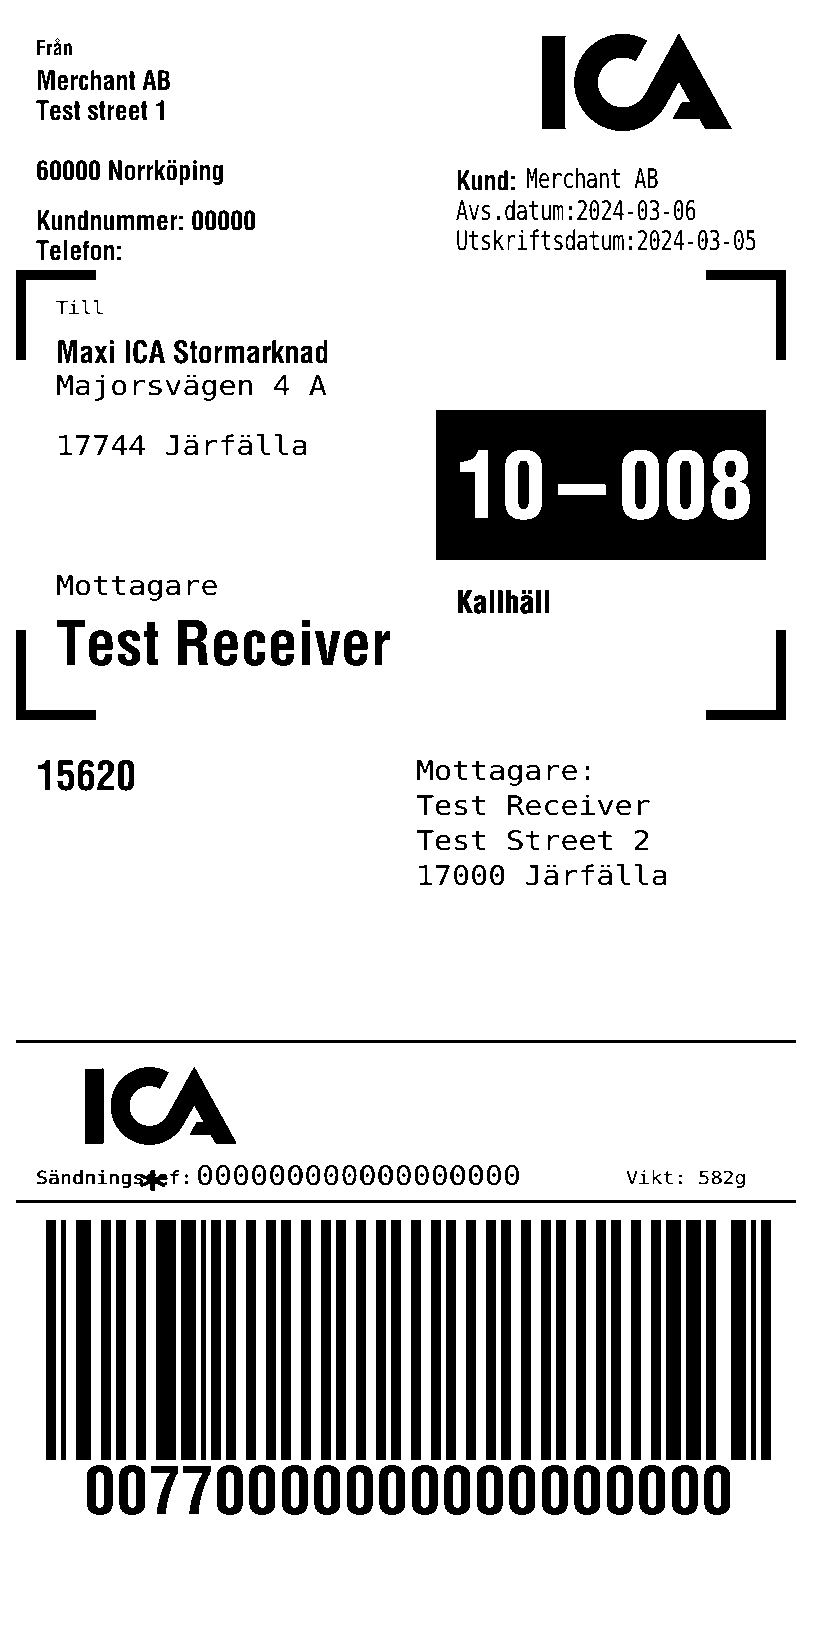
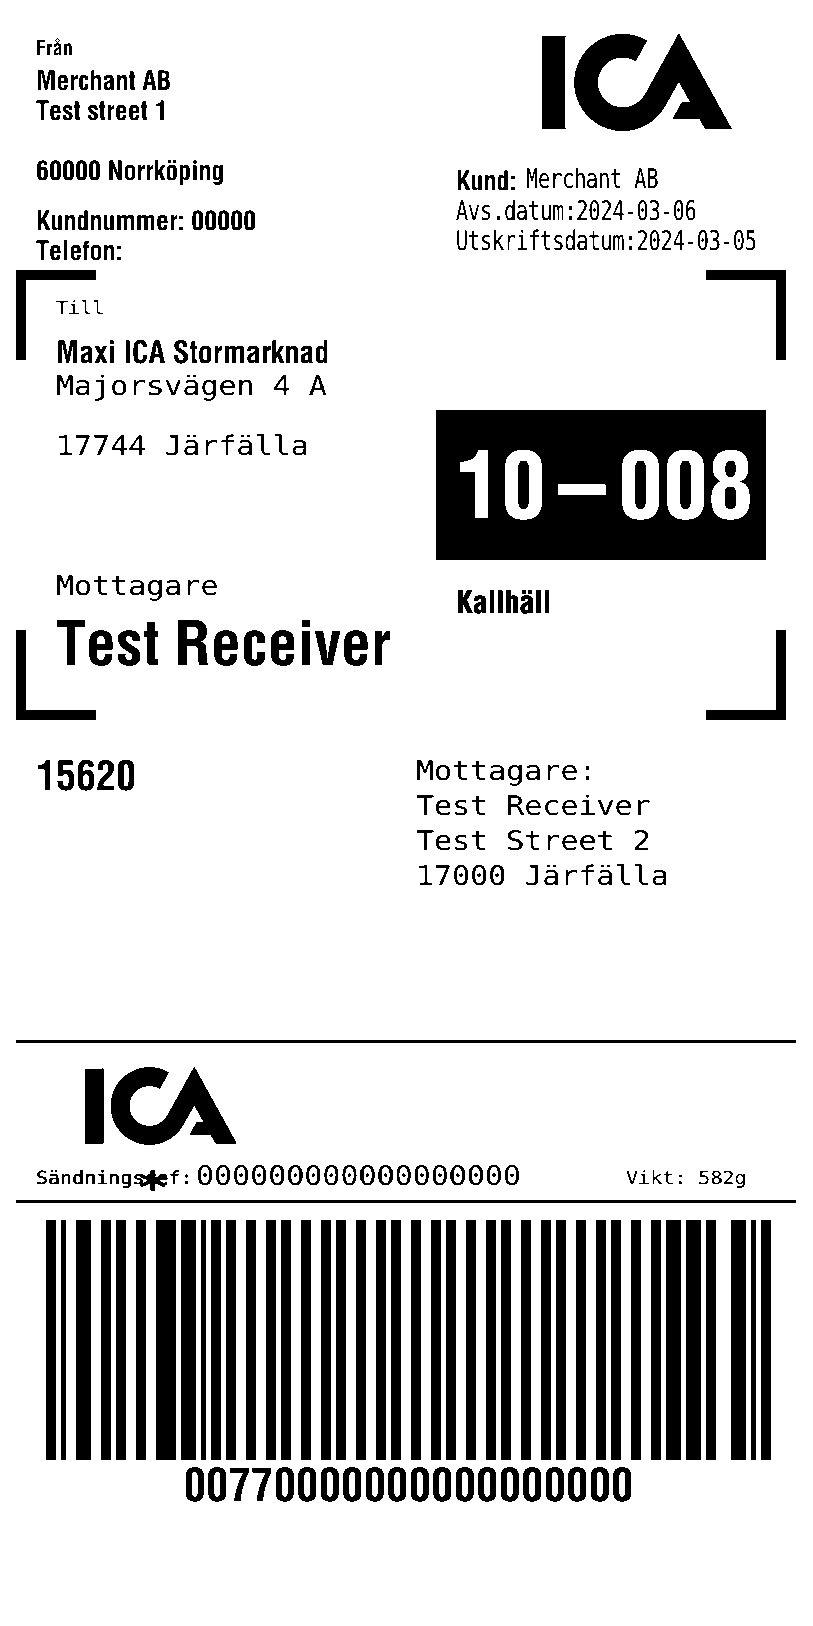
fix: better scaling and test cases

Changed region(s): [[0.0923, 0.8918, 0.9225, 0.9533]]

diff --git a/internal/drawers/barcode_128.go b/internal/drawers/barcode_128.go
@@ -19,7 +19,44 @@ var (
 	barcode128FNC1 = string(code128.ESCAPE_FNC_1)
 
 	parenthesisAndSpacesRegex = regexp.MustCompile(`[\(\)\s]`)
+
+	// barcodeTextGapExtra is the extra dots of space between barcode bars and human-readable text.
+	barcodeTextGapExtra = 2.0
 )
+
+// barcodeCaptionFontSize returns the caption font size for a given barcode module width (^BY first parameter).
+// Base is 10 at width 1 (same as ^CF,10); scale is non-linear per ZPL behavior.
+func barcodeCaptionFontSize(barWidth float64) float64 {
+	bw := int(barWidth)
+	if bw < 1 {
+		bw = 1
+	}
+	if bw >= 10 {
+		return float64(80 + (bw-9)*10)
+	}
+	switch bw {
+	case 1:
+		return 10
+	case 2:
+		return 20
+	case 3:
+		return 30
+	case 4:
+		return 40
+	case 5:
+		return 45
+	case 6:
+		return 50
+	case 7:
+		return 60
+	case 8:
+		return 70
+	case 9:
+		return 80
+	default:
+		return 10
+	}
+}
 
 func NewBarcode128Drawer() *ElementDrawer {
 	return &ElementDrawer{
@@ -80,7 +117,7 @@ func NewBarcode128Drawer() *ElementDrawer {
 
 func applyLineTextToCtx(gCtx *gg.Context, content string, pos elements.LabelPosition, lineAbove bool, barWidth, width, height float64) {
 	gCtx.SetColor(color.Black)
-	fontSize := max(barWidth, 1) * 13
+	fontSize := barcodeCaptionFontSize(barWidth)
 
 	face := truetype.NewFace(font0, &truetype.Options{Size: fontSize})
 	gCtx.SetFontFace(face)
@@ -88,9 +125,9 @@ func applyLineTextToCtx(gCtx *gg.Context, content string, pos elements.LabelPosi
 	x := float64(pos.X) + width/2
 	var y float64
 	if lineAbove {
-		y = float64(pos.Y) - barWidth
+		y = float64(pos.Y) - barWidth - barcodeTextGapExtra
 	} else {
-		y = float64(pos.Y) + height + fontSize*0.75 + barWidth
+		y = float64(pos.Y) + height + fontSize*0.75 + barWidth + barcodeTextGapExtra
 	}
 
 	gCtx.DrawStringAnchored(content, x, y, 0.5, 0)

diff --git a/internal/drawers/barcode_128_test.go b/internal/drawers/barcode_128_test.go
@@ -1,0 +1,30 @@
+package drawers
+
+import "testing"
+
+func TestBarcodeCaptionFontSize(t *testing.T) {
+	tests := []struct {
+		barWidth float64
+		want    float64
+	}{
+		{1, 10},
+		{2, 20},
+		{3, 30},
+		{4, 40},
+		{5, 45},
+		{6, 50},
+		{7, 60},
+		{8, 70},
+		{9, 80},
+		{10, 90},
+		{11, 100},
+		{0.5, 10},   // clamped to 1
+		{-1, 10},    // clamped to 1
+	}
+	for _, tt := range tests {
+		got := barcodeCaptionFontSize(tt.barWidth)
+		if got != tt.want {
+			t.Errorf("barcodeCaptionFontSize(%v) = %v, want %v", tt.barWidth, got, tt.want)
+		}
+	}
+}
